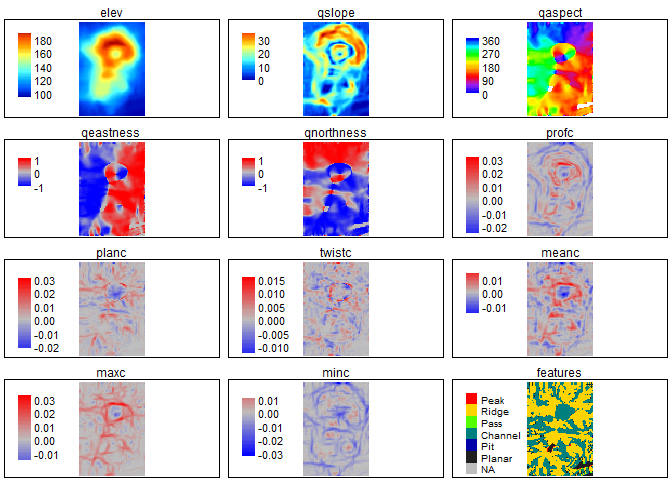
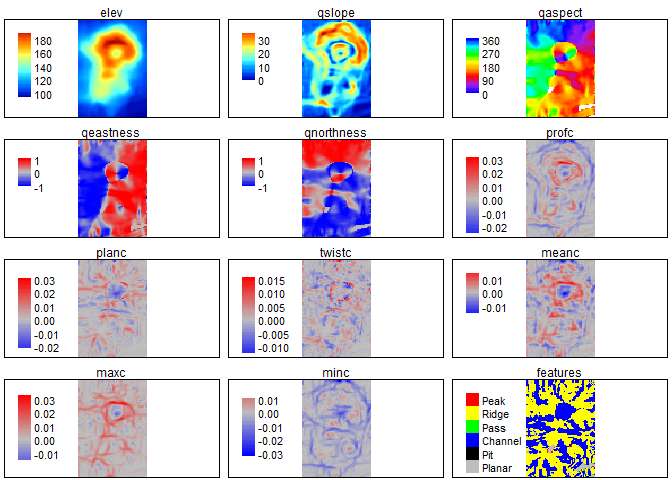
Mask edit Qfit - rather than detect whether observed values are the same see if predicted values are all the same

diff --git a/src/cpp_code.cpp b/src/cpp_code.cpp
@@ -51,10 +51,10 @@ NumericVector C_OLS_resid(arma::mat X, arma::mat Y){
 // [[Rcpp::export]]
 NumericMatrix C_Qfit1(NumericVector z, NumericMatrix X_full, bool na_rm, size_t ni, size_t nw) {
   
-  size_t nlyr = X_full.ncol() + 1; //Number of layers
+  size_t nlyr = X_full.ncol(); //Number of layers
   NumericMatrix out = NumericMatrix(ni, nlyr);
   out.fill(NA_REAL);
-  colnames(out)= CharacterVector::create("a", "b", "c", "d", "e", "f", "mask");
+  colnames(out)= CharacterVector::create("a", "b", "c", "d", "e", "f");
   
   int thresh = 6; //NEED AT LEAST 6 POINTS TO CALCULATE BECAUSE NEED AS MANY POINTS AS PARAMETERS
   
@@ -70,14 +70,13 @@ NumericMatrix C_Qfit1(NumericVector z, NumericMatrix X_full, bool na_rm, size_t 
       NumericMatrix X = subset_mat_rows(X_full, !NA_idx);
       NumericVector uni_Zvals = unique(zw);
       if(uni_Zvals.length() == 1){
-        //If all Z values are the same, intercept should just be the value and all other parameters are 0. mask is 1 indicating all values are the same
+        //If all Z values are the same, intercept should just be the value and all other parameters are 0.
         out(i, 0) = 0; //a
         out(i, 1) = 0; //b
         out(i, 2) = 0; //c
         out(i, 3) = 0; //d
         out(i, 4) = 0; //e
         out(i, 5) = uni_Zvals[0]; //f
-        out(i, 6) = 1; //mask
       } else{
         NumericVector params = C_OLS_params(as<arma::mat>(X), as<arma::mat>(Z));
         out(i, 0) =  params[0]; //a
@@ -95,10 +94,10 @@ NumericMatrix C_Qfit1(NumericVector z, NumericMatrix X_full, bool na_rm, size_t 
 // [[Rcpp::export]]
 NumericMatrix C_Qfit2(NumericVector z, NumericMatrix X_full, bool na_rm, size_t ni, size_t nw) {
   
-  size_t nlyr = X_full.ncol() + 1; //Number of layers
+  size_t nlyr = X_full.ncol(); //Number of layers
   NumericMatrix out = NumericMatrix(ni, nlyr);
   out.fill(NA_REAL);
-  colnames(out)= CharacterVector::create("a", "b", "c", "d", "e", "mask");
+  colnames(out)= CharacterVector::create("a", "b", "c", "d", "e");
   
   int thresh = 5; //NEED AT LEAST 5 POINTS TO CALCULATE BECAUSE NEED AS MANY POINTS AS PARAMETERS
   
@@ -116,13 +115,12 @@ NumericMatrix C_Qfit2(NumericVector z, NumericMatrix X_full, bool na_rm, size_t 
       NumericMatrix X = subset_mat_rows(X_full, !NA_idx);
       NumericVector uni_Zvals = unique(zw);
       if(uni_Zvals.length() == 1){
-        //If all Z values are the same, intercept should just be the value and all other parameters are 0. mask is 1 indicating all values are the same
+        //If all Z values are the same, intercept should just be the value and all other parameters are 0.
         out(i, 0) = 0; //a
         out(i, 1) = 0; //b
         out(i, 2) = 0; //c
         out(i, 3) = 0; //d
         out(i, 4) = 0; //e
-        out(i, 5) = 1; //mask
       } else{
         NumericVector params = C_OLS_params(as<arma::mat>(X), as<arma::mat>(Z));
         out(i, 0) =  params[0]; //a

diff --git a/README.md b/README.md
@@ -138,9 +138,6 @@ qmetrics<- Qfit(r, w = c(5,5), unit = "degrees", metrics = c("elev", "qslope", "
 
 ![](README_files/figure-gfm/unnamed-chunk-8-1.png)<!-- -->
 
-    ## Error in rgb(terra::coltab(.x)[[1]], maxColorValue = 255) : 
-    ##   argument "green" is missing, with no default
-
 To explore these measures in an interactive environment use
 `explore_terrain()` or go to this
 [website](https://ailich.shinyapps.io/Terrain_Attributes_Explorer_App/)
